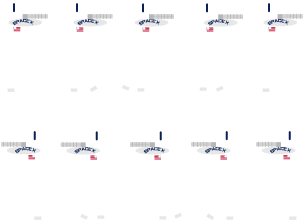
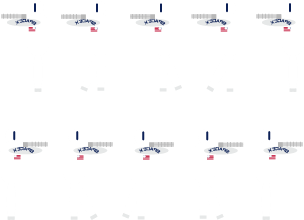
music

diff --git a/gamesystem/docs/js/map.js b/gamesystem/docs/js/map.js
@@ -32,13 +32,13 @@ let sources = {
     },
 
     player: {
-        src: 'img/sprites/cavedude_side2',
-        srcWidth: 1248,
-        srcHeight: 186,
-        width: 96,
+        src: 'img/walkcycle.png',
+        srcWidth: 304,
+        srcHeight: 220,
+        width: 64,
         height: 96,
         offsetX: 0,
-        offsetY: 512
+        offsetY: 0
     },
     enemy: {
         src: 'img/sprites/player.png',
@@ -122,13 +122,12 @@ let sources = {
         offsetY: 480
     },
     MovingPlatform: {
-        src: 'img/sprites/cavedude_side2.png',
-        srcWidth: 32,
-        srcHeight: 32,
-        width: 32,
-        height: 32,
-        offsetX: 32,
-        offsetY: 480
+        src: 'img/asteroid1.png',
+        srcWidth: 52,
+        srcHeight: 156,
+        width: 52,
+        height: 56,
+
     },
     MovingPlatform2: {
         src: 'img/sprites/cavedude_side2.png',

diff --git a/gamesystem/docs/js/Player.js b/gamesystem/docs/js/Player.js
@@ -4,7 +4,7 @@ class Player
     constructor(pos, speed, prevX, prevY, facing)
     {
         this.pos = pos;
-        this.size = new Vector(1, 1);
+        this.size = new Vector(2, 2);
         this.speed = speed;
         this.xOverlap = 4;
         this.xSpeed = 8;
